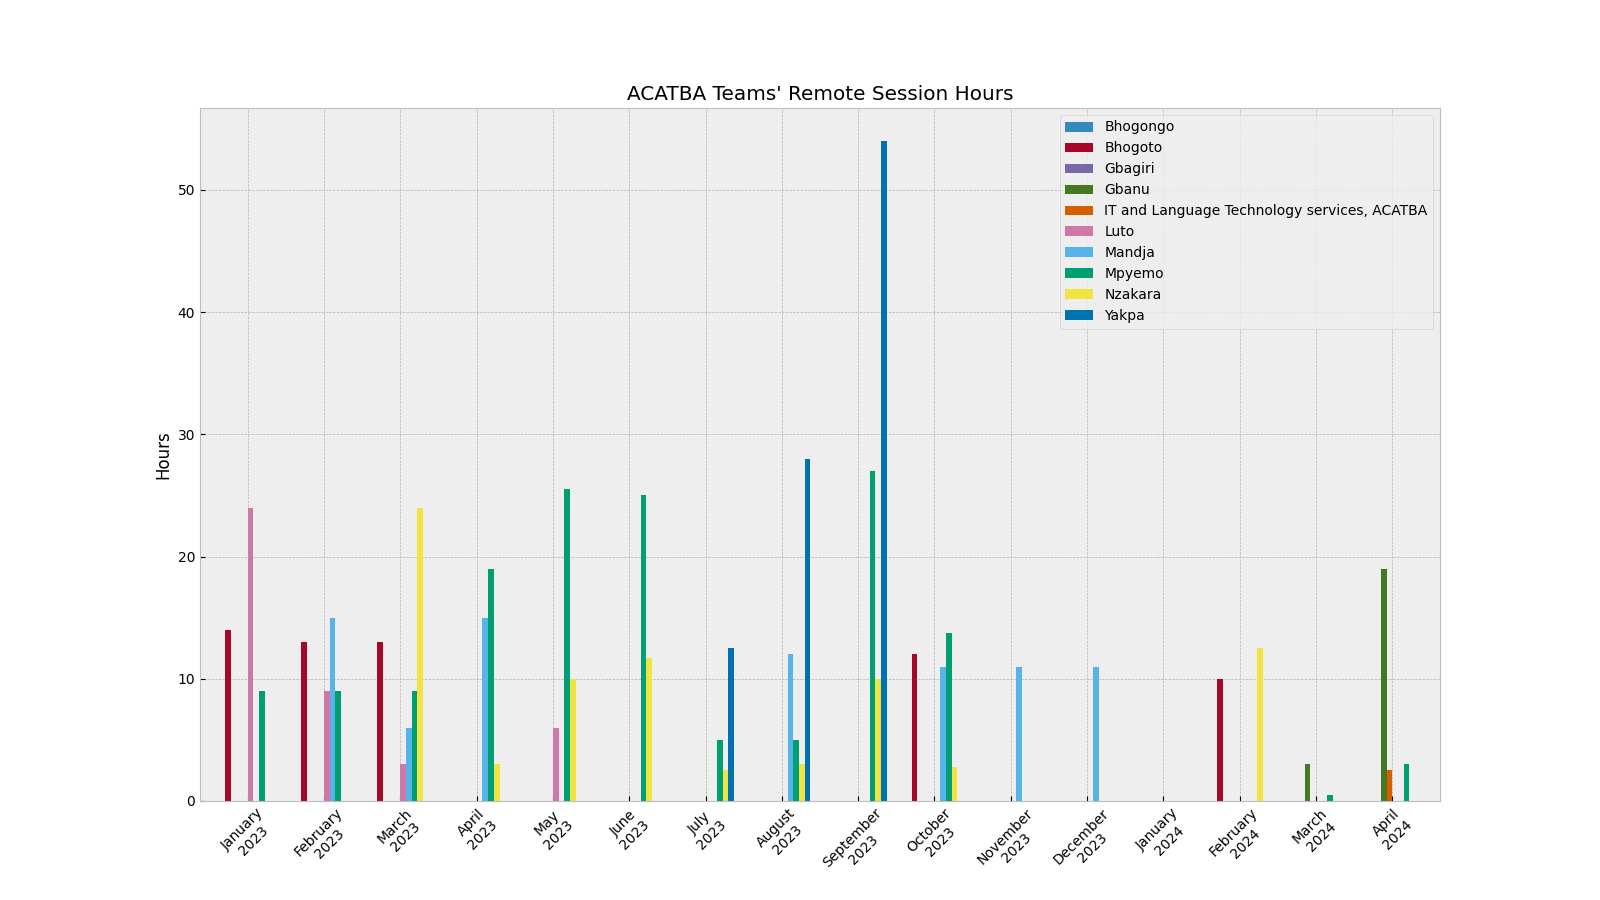
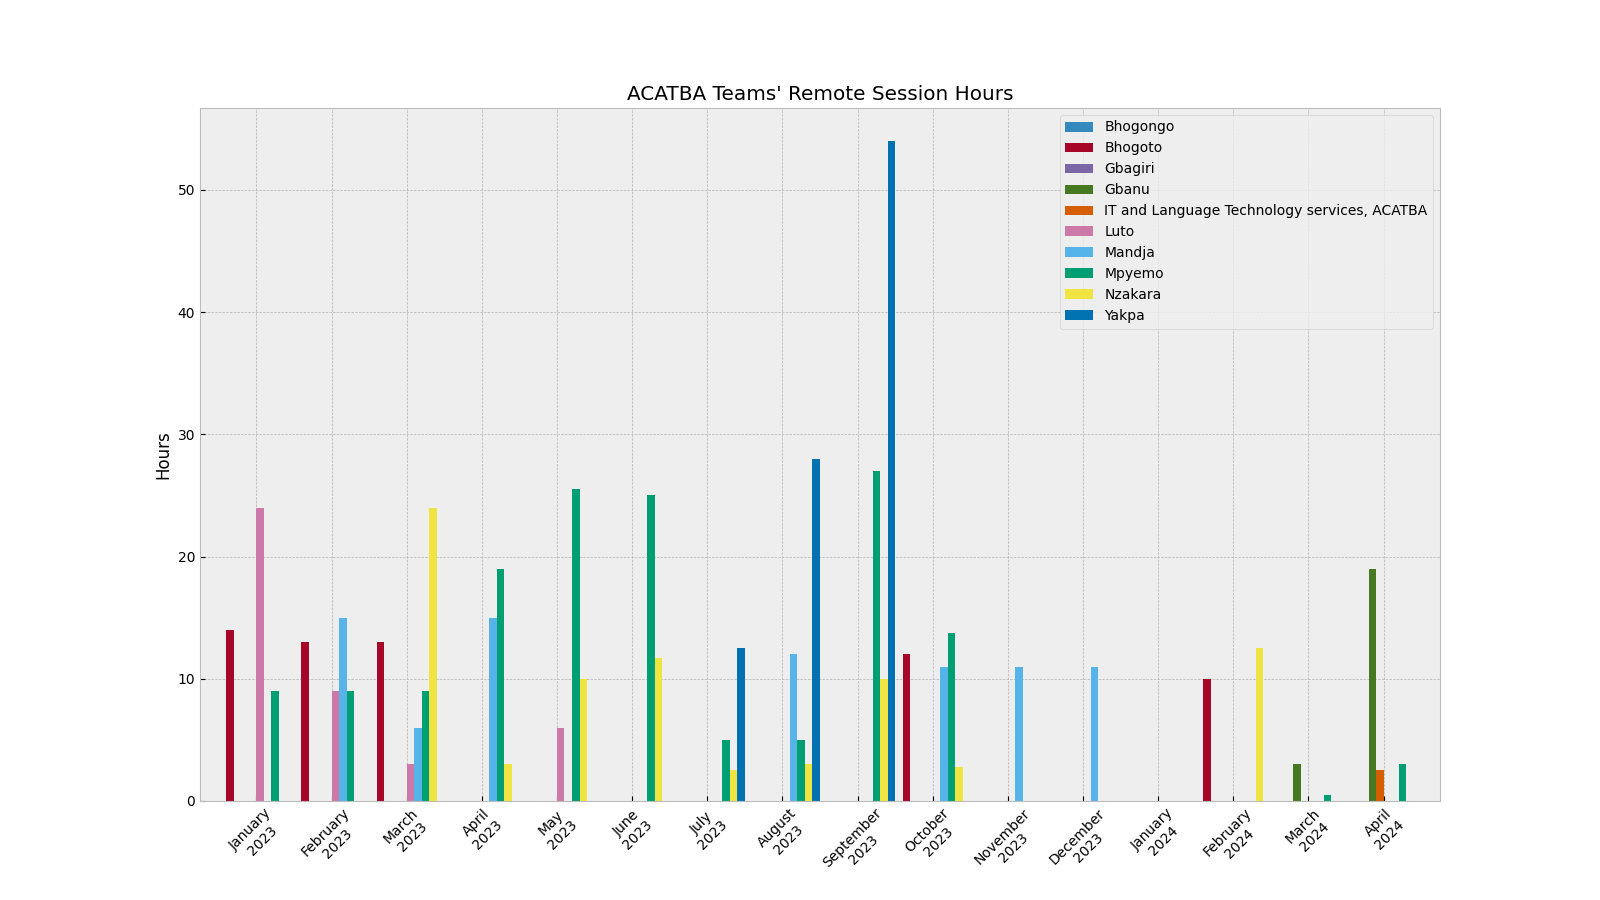
update column width

Changed region(s): [[0.125, 0.1556, 0.875, 0.9644]]

diff --git a/service_reports_generator.py b/service_reports_generator.py
@@ -285,7 +285,7 @@ def gen_teams_plot(title=None):
         figsize=(16, 9),
         ylabel="Hours",
         rot=45,
-        width=0.75,
+        width=1,
     )
     ax.set_xticklabels(map(monthly_fmt, df.index))
     ax.set_xlabel(None)
